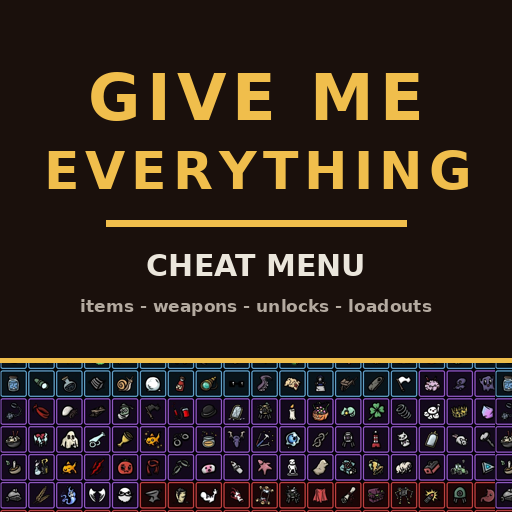
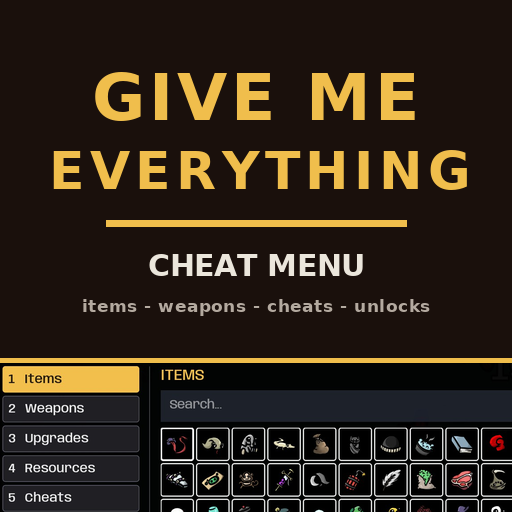
GiveMeEverything (Brotato) 1.3.0: tabs on the left, co-op shop crash fix, tab hotkeys

diff --git a/Brotato/GiveMeEverything/README.md b/Brotato/GiveMeEverything/README.md
@@ -7,16 +7,16 @@
 All-in-one cheat menu for Brotato: give any item, weapon or upgrade, edit gold/XP, god-mode cheats, spawn consumables, manage every unlock (characters, codex, challenges, danger, wins) and save loadouts. Press F6 to open (L3+R3 on controller). Full controller support, works in co-op. English, Portuguese (Brazil) and Simplified Chinese.
 
 ## ✨ Features
-- Give tabs with search, tier filter, icons and real in-game descriptions; DLC and modded content included automatically; cursed toggle with the DLC
-- Gold/XP editing with infinite gold, invulnerability, one-shot enemies, instant waves, end wave, starting wave picker, consumable spawner
+- Give tabs with search, tier filter, icons and real in-game descriptions; DLC and modded content included automatically; cursed toggle with the DLC; repeated clicks counted in the status line
+- Resources tab (gold/XP with infinite gold, consumable spawner) and Cheats tab (invulnerability, one-shot enemies, instant waves, end wave, starting wave picker)
 - Inventory tab with per-item removal and clear-all; named loadouts saved between runs
 - Unlocks manager (works from the title screen): per-entry lock/unlock plus un/lock-all per section (asks for a second click), and win painting up to Nightmare with the proper character select colors and border
-- Controller: LB/RB tabs, LT/RT tiers/sections, Y cursed, X un/lock all; open with L3+R3. Works in local co-op and Brotato Online (clients act through the host, which needs the mod too), shop included
+- Tabs down the left, keyboard 1-7 jump to a tab. Controller: LB/RB tabs, LT/RT tiers/sections, Y cursed, X un/lock all; open with L3+R3. Works in local co-op and Brotato Online (clients act through the host, which needs the mod too), shop included
 - Options in Options > Mods (requires ModOptions): open key, controller shortcut, pause on open, menu scale
 
 ## 📸 Screenshots
 ![screenshot](screenshots/01-items.jpg)
-![screenshot](screenshots/07-wins.jpg)
+![screenshot](screenshots/09-wins.jpg)
 
 ## 📦 Install
 Subscribe on [Steam Workshop](https://steamcommunity.com/sharedfiles/filedetails/?id=3787782867) — Brotato installs it automatically. Requires Brotato 1.1+ (built-in mod support). Manual install: put the zip in the game's mods folder.
